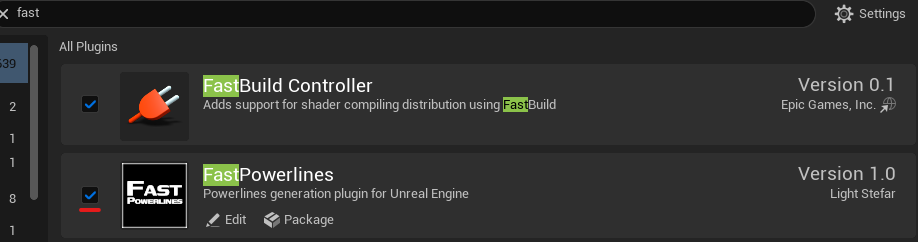
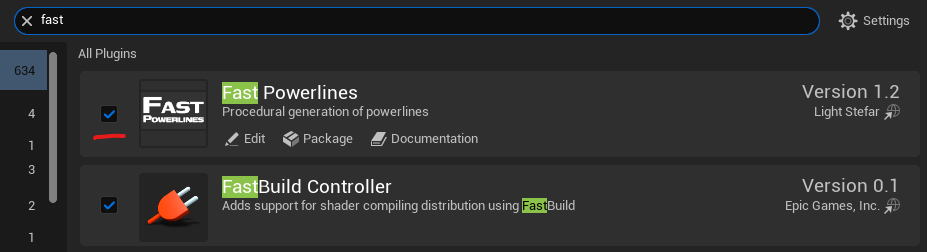
Powerlines update to 1.21

diff --git a/content/powerlines/_index.md b/content/powerlines/_index.md
@@ -23,11 +23,12 @@ The plugin's structure is divided into two core parts:
 
 This separation allows for efficient workflow: artists and designers can configure assets and presets in the Data Asset, while level builders can rapidly place and connect Powerline Actors using those shared settings. Together with the **Connection** system for networking and **Optimization** tools like mesh baking, they form a complete, performant solution for creating believable power infrastructure.
 
-{{< callout >}}
+<!-- {{< callout >}}
 **Supported Target Platforms**<br>
 Windows and Linux are officially supported target platforms. The plugin has not been tested on other systems, but it should compile and function on any platform that supports the procedural mesh component. 
 {{< /callout >}}
-{{< space 2 >}}
+{{< space 2 >}} -->
+--- 
 
 {{< cards >}}
   {{< card link="getting-started" title="Getting Started" icon="academic-cap" subtitle="Guide" >}}

diff --git a/content/powerlines/changelog.md b/content/powerlines/changelog.md
@@ -5,6 +5,15 @@ weight: 10
 prev: /powerlines
 ---
 
+## Version 1.21
+
+### **Changed**
+ *   Changed plugin icon.
+
+### **Fixed**
+ *   Fixed material presets crash.  
+
+---
 
 ## Version 1.2
 
